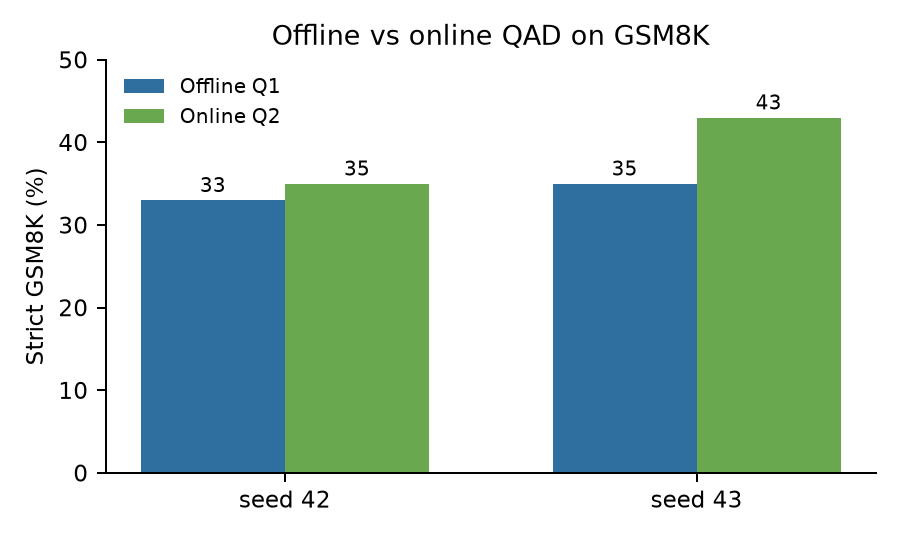
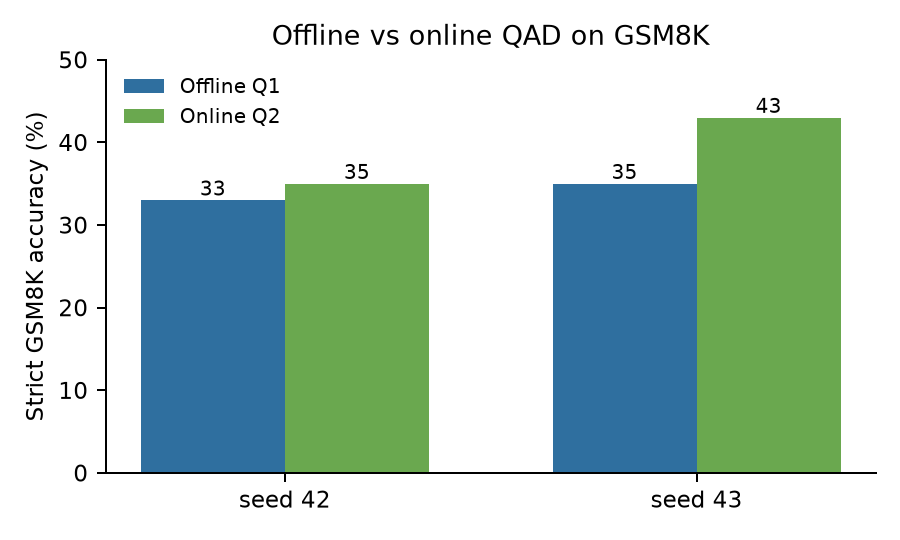
Regenerate figures from canonical JSON with separate PPL/GSM panels
The previous figures mixed PPL bars and GSM8K lines on dual axes, making the
line heights visually incomparable. New figures read values directly from the
canonical JSON and use separate panels for each metric.

diff --git a/scripts/make_figures.py b/scripts/make_figures.py
@@ -1,0 +1,116 @@
+"""Generate final-report figures directly from canonical JSON metrics."""
+
+from __future__ import annotations
+
+import json
+from pathlib import Path
+
+import matplotlib
+matplotlib.use("Agg")
+import matplotlib.pyplot as plt
+import numpy as np
+
+OUT = Path("reports/figures")
+OUT.mkdir(parents=True, exist_ok=True)
+plt.rcParams.update({"font.size": 9, "axes.spines.top": False, "axes.spines.right": False})
+
+
+def metric(path: str, key: str) -> float:
+    return float(json.loads(Path(path).read_text())["metrics"][key])
+
+
+def bars_with_labels(ax, labels, values, colors, ylabel, fmt="{:.1f}", ylim=None):
+    x = np.arange(len(labels))
+    bars = ax.bar(x, values, color=colors, width=0.62)
+    ax.set_xticks(x)
+    ax.set_xticklabels(labels, rotation=18, ha="right")
+    ax.set_ylabel(ylabel)
+    ax.set_ylim(0, ylim if ylim is not None else max(values) * 1.18)
+    for bar, value in zip(bars, values):
+        ax.text(bar.get_x() + bar.get_width() / 2, bar.get_height(),
+                fmt.format(value), ha="center", va="bottom", fontsize=8)
+
+
+def two_panel(labels, ppl, gsm, title, filename, colors):
+    fig, (a, b) = plt.subplots(1, 2, figsize=(8.2, 3.2))
+    bars_with_labels(a, labels, ppl, colors, "WikiText test PPL (lower is better)")
+    bars_with_labels(b, labels, gsm, colors, "Strict GSM8K accuracy (%)", ylim=65)
+    a.set_title("Test perplexity")
+    b.set_title("GSM8K")
+    fig.suptitle(title, fontsize=10)
+    fig.tight_layout()
+    fig.savefig(OUT / filename, dpi=180)
+    plt.close(fig)
+
+
+# 0.6B W4
+labels = ["BF16", "W4 RTN", "Q1 s42", "Q1 s43", "Q2 s42", "Q2 s43"]
+ppl = [
+    metric("experiments/gate8/test_t0.json", "perplexity"),
+    metric("experiments/gate8/test_q0_w4.json", "perplexity"),
+    metric("experiments/gate8/test_m_q1_w4_s42_verified.json", "perplexity"),
+    metric("experiments/gate8/test_m_q1_w4_s43_verified.json", "perplexity"),
+    metric("experiments/gate8/test_m_q2_w4_s42_verified.json", "perplexity"),
+    metric("experiments/gate8/test_m_q2_w4_s43_verified.json", "perplexity"),
+]
+gsm_paths = [
+    "experiments/gate8/regraded_v3/gsm8k_t0_nonthink.json",
+    "experiments/gate8/regraded_v3/gsm8k_q0_w4_nonthink.json",
+    "experiments/gate8/regraded_v3/gsm8k_m_q1_w4_s42_nonthink.json",
+    "experiments/gate8/regraded_v3/gsm8k_m_q1_w4_s43_nonthink.json",
+    "experiments/gate8/regraded_v3/gsm8k_m_q2_w4_s42_nonthink.json",
+    "experiments/gate8/regraded_v3/gsm8k_m_q2_w4_s43_nonthink.json",
+]
+gsm = [metric(p, "accuracy") * 100 for p in gsm_paths]
+two_panel(labels, ppl, gsm, "Qwen3-0.6B W4-G128: test likelihood and strict GSM8K",
+          "fig_w4_recovery.png", ["#4d4d4d", "#b04a4a", "#2f6f9f", "#6aa84f", "#2f6f9f", "#6aa84f"])
+
+# W3 vs W4
+labels = ["W3-G128", "W3-G32", "W4 Q1", "BF16"]
+ppl = [
+    metric("experiments/gate8/test_m_q1_w3_s42_verified.json", "perplexity"),
+    metric("experiments/gate9/test_m_q1_w3g32_s42_verified.json", "perplexity"),
+    metric("experiments/gate8/test_m_q1_w4_s42_verified.json", "perplexity"),
+    metric("experiments/gate8/test_t0.json", "perplexity"),
+]
+gsm = [
+    metric("experiments/gate8/regraded_v3/gsm8k_m_q1_w3_s42_nonthink.json", "accuracy") * 100,
+    metric("experiments/gate9/regraded_v3/gsm8k_m_q1_w3g32_s42_nonthink.json", "accuracy") * 100,
+    metric("experiments/gate8/regraded_v3/gsm8k_m_q1_w4_s42_nonthink.json", "accuracy") * 100,
+    metric("experiments/gate8/regraded_v3/gsm8k_t0_nonthink.json", "accuracy") * 100,
+]
+two_panel(labels, ppl, gsm, "W3 group size vs W4 recovery (0.6B, seed 42)",
+          "fig_w3_granularity.png", ["#8c2f2f", "#c47f2f", "#2f6f9f", "#4d4d4d"])
+
+# offline vs online
+fig, ax = plt.subplots(figsize=(5, 3))
+x = np.arange(2); w = 0.35
+q1 = [metric("experiments/gate8/regraded_v3/gsm8k_m_q1_w4_s42_nonthink.json", "accuracy") * 100,
+      metric("experiments/gate8/regraded_v3/gsm8k_m_q1_w4_s43_nonthink.json", "accuracy") * 100]
+q2 = [metric("experiments/gate8/regraded_v3/gsm8k_m_q2_w4_s42_nonthink.json", "accuracy") * 100,
+      metric("experiments/gate8/regraded_v3/gsm8k_m_q2_w4_s43_nonthink.json", "accuracy") * 100]
+ax.bar(x - w / 2, q1, w, label="Offline Q1", color="#2f6f9f")
+ax.bar(x + w / 2, q2, w, label="Online Q2", color="#6aa84f")
+for i, (a, b) in enumerate(zip(q1, q2)):
+    ax.text(i - w / 2, a, f"{a:.0f}", ha="center", va="bottom", fontsize=8)
+    ax.text(i + w / 2, b, f"{b:.0f}", ha="center", va="bottom", fontsize=8)
+ax.set_xticks(x); ax.set_xticklabels(["seed 42", "seed 43"])
+ax.set_ylabel("Strict GSM8K accuracy (%)"); ax.set_ylim(0, 50)
+ax.set_title("Offline vs online QAD on GSM8K")
+ax.legend(frameon=False, fontsize=8)
+fig.tight_layout(); fig.savefig(OUT / "fig_offline_online.png", dpi=180); plt.close(fig)
+
+# 1.7B
+labels = ["BF16", "W4 RTN", "W4 Q1"]
+ppl = [
+    metric("experiments/gate8/test_1p7b_t0.json", "perplexity"),
+    metric("experiments/gate8/test_1p7b_q0_w4.json", "perplexity"),
+    metric("experiments/gate8/test_m_q1_w4_1p7b_verified.json", "perplexity"),
+]
+gsm = [
+    metric("experiments/gate8/regraded_v3/gsm8k_1p7b_t0_nonthink.json", "accuracy") * 100,
+    metric("experiments/gate8/regraded_v3/gsm8k_1p7b_q0_nonthink.json", "accuracy") * 100,
+    metric("experiments/gate8/regraded_v3/gsm8k_m_q1_w4_1p7b_nonthink.json", "accuracy") * 100,
+]
+two_panel(labels, ppl, gsm, "Qwen3-1.7B W4-G128 controlled check",
+          "fig_1p7b.png", ["#4d4d4d", "#b04a4a", "#2f6f9f"])
